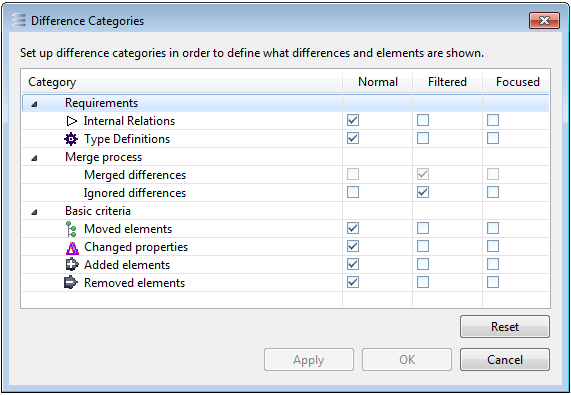
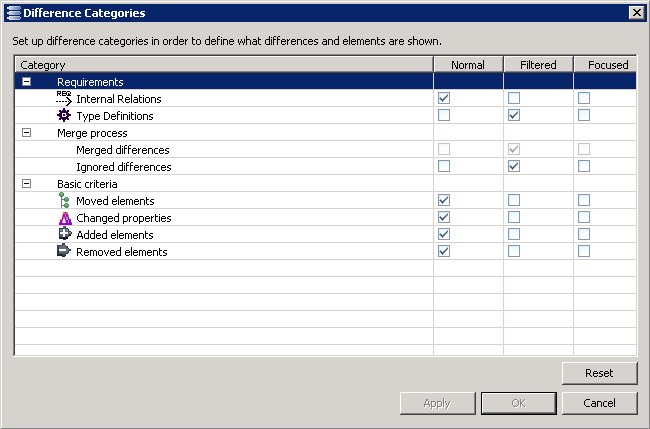
[1404] Change options default value for merge operation
Bug 1404

diff --git a/plugins/org.polarsys.capella.vp.requirements.doc/html/3_userguide/33_diffmerge.html b/plugins/org.polarsys.capella.vp.requirements.doc/html/3_userguide/33_diffmerge.html
@@ -1,6 +1,6 @@
 <!DOCTYPE HTML PUBLIC "-//W3C//DTD HTML 4.01 Transitional//EN" "http://www.w3.org/TR/html4/loose.dtd">
 <!--
-  Copyright (c) 2016 THALES GLOBAL SERVICES.
+  Copyright (c) 2016, 2017 THALES GLOBAL SERVICES.
   All rights reserved. This program and the accompanying materials
   are made available under the terms of the Eclipse Public License v1.0
   which accompanies this distribution, and is available at
@@ -38,7 +38,18 @@ The 2 horizontal sections correspond to 2 levels of detail. The top section focu
 For example, if a modified element (in purple) is being clicked in the Synthesis section, then the Details section displays all the attributes and references of that element that have differences. The corresponding values are displayed in the middle and right parts of the Details section according to the model they belong to. These sub-sections are called the Value sections. For instance, in the snapshot above, element "N2" is selected in the Synthesis section; the Details section shows that it has a difference on its name: the name is "N2" in the left model and "N2-Container" in the right model as shown in the Value sections.
       </p>
       
-      
+      <p>
+<b>Iterative import</b><br>
+By default the following options are checked for the merge operation.
+      </p>
+       <p>
+<img src="../../images/MergeOperation.png" alt="Merge Operation" title="Merge Operation">
+      </p>
+      <p>
+It's highly recommended to keep those options check if you have created requirements manually into your model.
+You may loose manually added requirements if you uncheck those options.
+      </p>
+   
       <p>
 <b>Filtering Capability</b><br>
 

diff --git a/plugins/org.polarsys.capella.vp.requirements.importer/src/org/polarsys/capella/vp/requirements/importer/transposer/bridge/RequirementsComparisonViewer.java b/plugins/org.polarsys.capella.vp.requirements.importer/src/org/polarsys/capella/vp/requirements/importer/transposer/bridge/RequirementsComparisonViewer.java
@@ -1,0 +1,41 @@
+/*******************************************************************************
+ * Copyright (c) 2017 THALES GLOBAL SERVICES.
+ * All rights reserved. This program and the accompanying materials
+ * are made available under the terms of the Eclipse Public License v1.0
+ * which accompanies this distribution, and is available at
+ * http://www.eclipse.org/legal/epl-v10.html
+ *  
+ * Contributors:
+ *    Thales - initial API and implementation
+ *******************************************************************************/
+package org.polarsys.capella.vp.requirements.importer.transposer.bridge;
+
+import java.util.List;
+
+import org.eclipse.emf.diffmerge.bridge.interactive.BridgeComparisonViewer;
+import org.eclipse.emf.diffmerge.diffdata.EMatch;
+import org.eclipse.emf.diffmerge.ui.viewers.EMFDiffNode;
+import org.eclipse.emf.diffmerge.ui.viewers.MergeChoiceData;
+import org.eclipse.swt.widgets.Composite;
+import org.eclipse.ui.IActionBars;
+
+public class RequirementsComparisonViewer extends BridgeComparisonViewer {
+
+
+  public RequirementsComparisonViewer(Composite parent) {
+    this(parent,  null);
+  }
+
+  public RequirementsComparisonViewer(Composite parent, IActionBars actionBars) {
+    super(parent, actionBars);
+  }
+  
+  @Override
+  protected void makeMergeChoices(MergeChoiceData choices, EMFDiffNode input, List<EMatch> selectedMatches,
+      boolean acceptIncrementalMode) {
+    // Make the following choices checked by default
+    choices.setIncrementalMode(true);
+    choices.setShowImpact(true);
+    super.makeMergeChoices(choices, input, selectedMatches, acceptIncrementalMode);
+  }
+}

diff --git a/plugins/org.polarsys.capella.vp.requirements.importer/src/org/polarsys/capella/vp/requirements/importer/transposer/bridge/RequirementsVPBridge.java b/plugins/org.polarsys.capella.vp.requirements.importer/src/org/polarsys/capella/vp/requirements/importer/transposer/bridge/RequirementsVPBridge.java
@@ -32,12 +32,14 @@ import org.eclipse.emf.diffmerge.bridge.traces.gen.bridgetraces.BridgetracesFact
 import org.eclipse.emf.diffmerge.bridge.traces.gen.bridgetraces.Trace;
 import org.eclipse.emf.diffmerge.diffdata.EComparison;
 import org.eclipse.emf.diffmerge.diffdata.impl.EComparisonImpl;
+import org.eclipse.emf.diffmerge.ui.viewers.AbstractComparisonViewer;
 import org.eclipse.emf.diffmerge.ui.viewers.EMFDiffNode;
 import org.eclipse.emf.diffmerge.ui.viewers.categories.DifferenceCategorySet;
 import org.eclipse.emf.ecore.EObject;
 import org.eclipse.emf.ecore.resource.Resource;
 import org.eclipse.emf.ecore.util.EcoreUtil;
 import org.eclipse.emf.edit.domain.EditingDomain;
+import org.eclipse.swt.widgets.Composite;
 import org.polarsys.capella.common.data.modellingcore.ModelElement;
 import org.polarsys.capella.common.ef.ExecutionManager;
 import org.polarsys.capella.common.ef.command.AbstractReadWriteCommand;
@@ -216,5 +218,8 @@ public class RequirementsVPBridge extends EMFInteractiveBridge<IEditableModelSco
       }
     });
   }
-
+  
+  protected AbstractComparisonViewer createComparisonViewer(Composite parent) {
+    return new RequirementsComparisonViewer(parent);
+  }
 }
